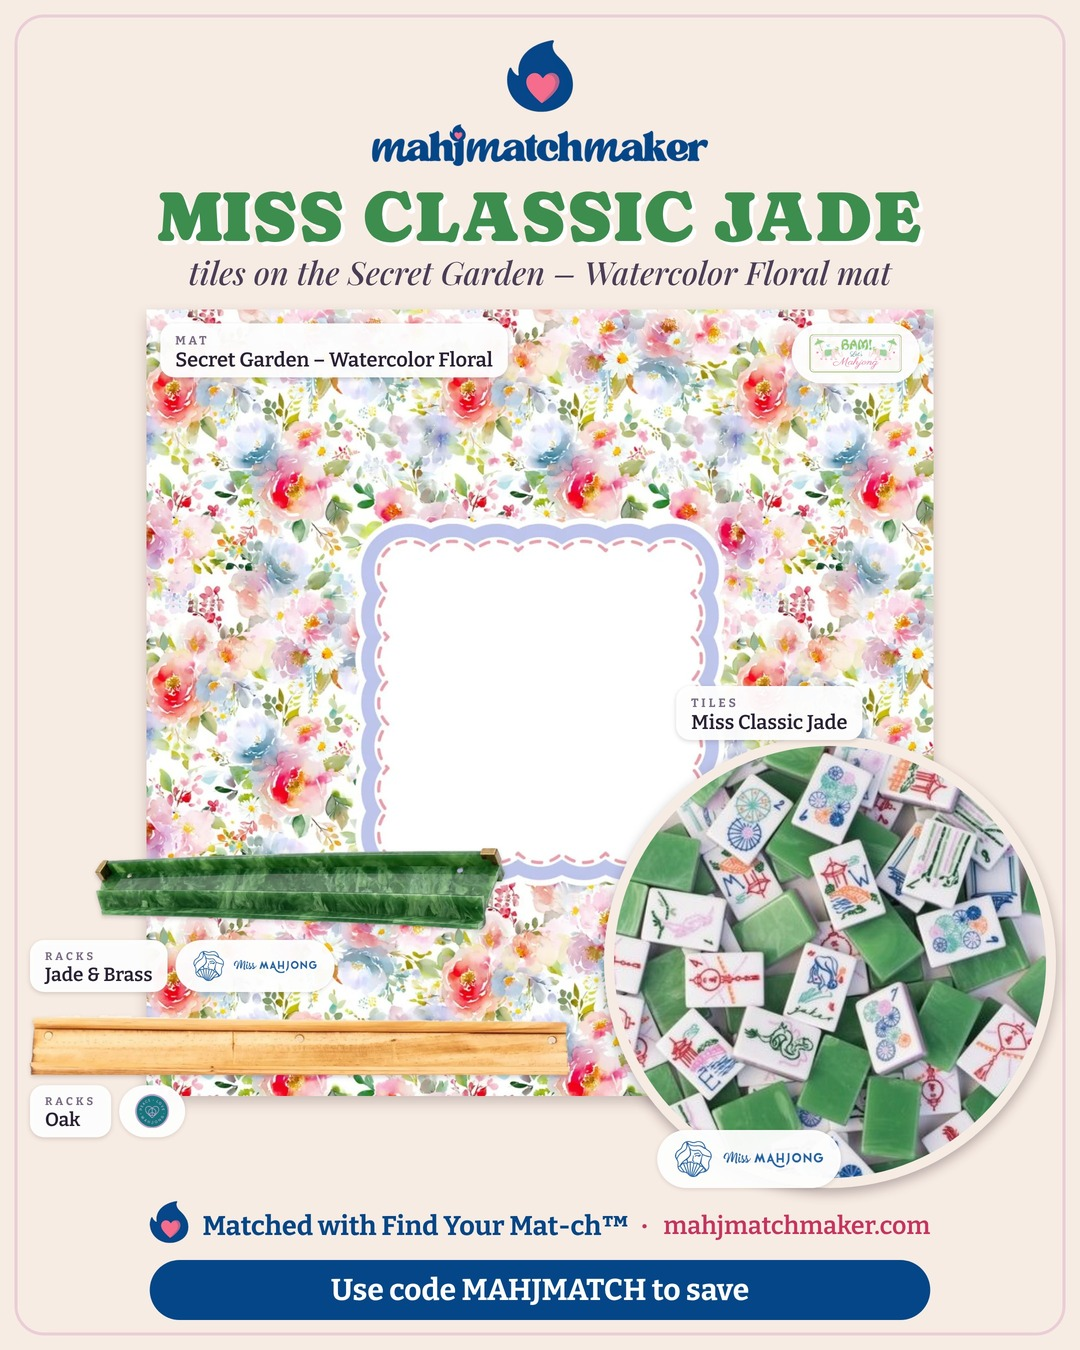
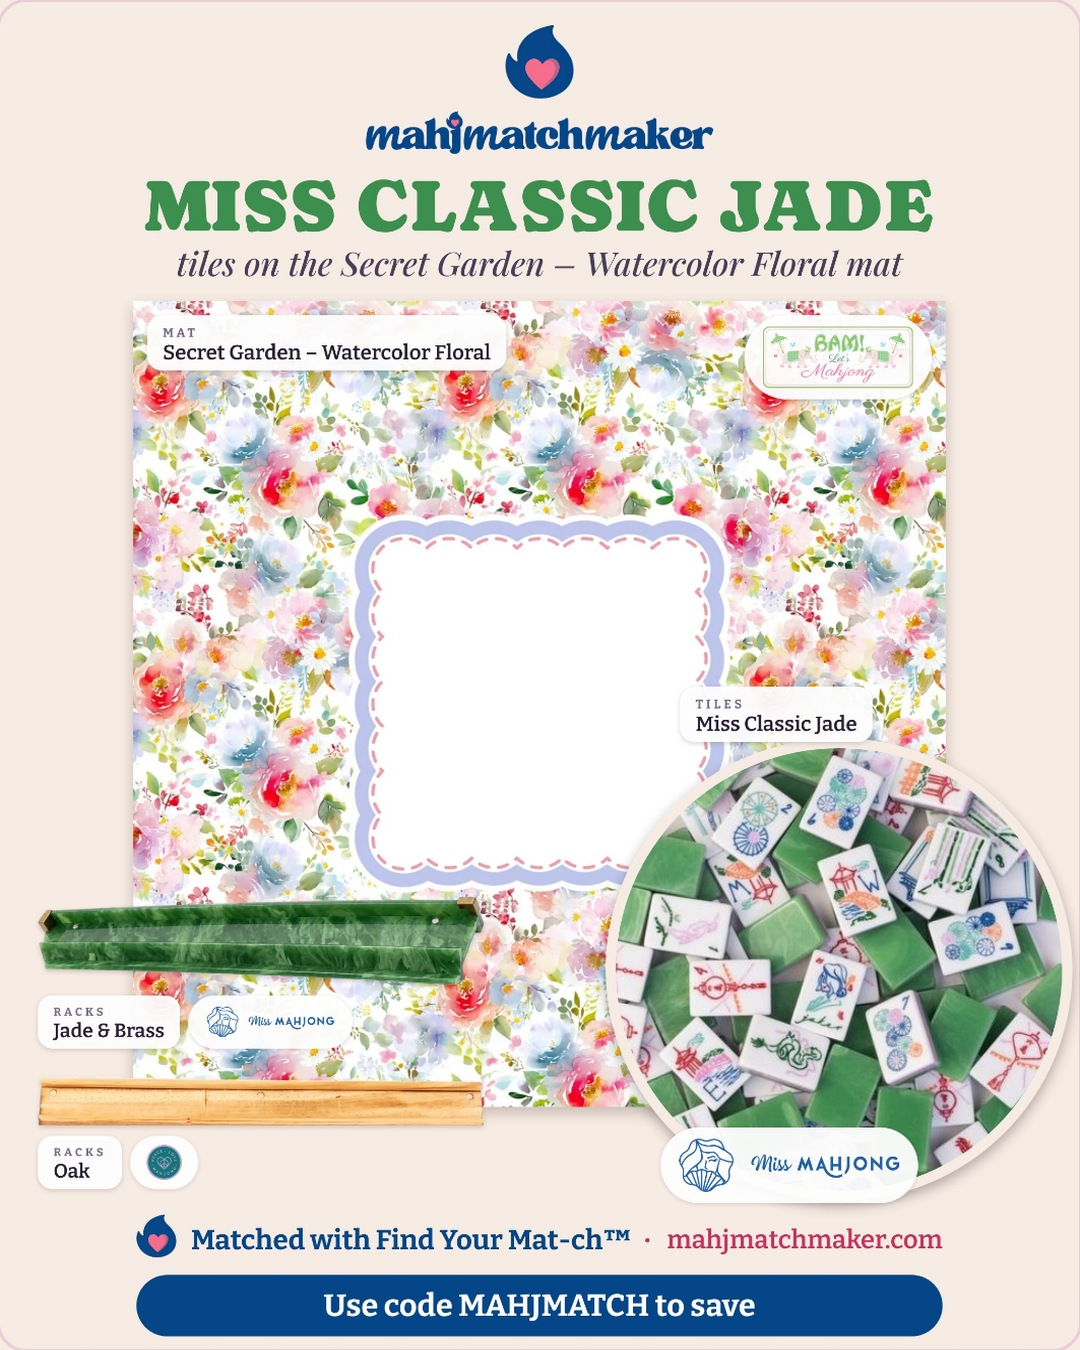
Miss Classic restock pivot: clean cards, Planoly captions, stories; partner watch rebuilt
Claude-Session: https://claude.ai/code/session_01QxwYQtmWcAr4s5uYJYP3mA

diff --git a/assets/social/fym-launch/launch-oct27/_s.html b/assets/social/fym-launch/launch-oct27/_s.html
@@ -1,0 +1,1 @@
+<html><head><meta charset=utf8><style>@font-face{font-family:Cap;src:url(file:///home/claude/mahjmatchmaker-data/scripts/social/tileprofile/fonts/Caprasimo.ttf)}@font-face{font-family:PF;src:url(file:///home/claude/mahjmatchmaker-data/scripts/social/tileprofile/fonts/playfair-display-latin-400-italic.woff2);font-style:italic}@font-face{font-family:Bit;src:url(file:///home/claude/mahjmatchmaker-data/scripts/social/tileprofile/fonts/bitter-latin-700-normal.woff2);font-weight:700}*{margin:0;box-sizing:border-box}body{position:relative;overflow:hidden;font-family:Bit;background:#fff;color:#062a55}.c{position:absolute;left:0;right:0;text-align:center}body{width:1080px;height:1920px}</style></head><body><div class="c" style="top:230px"><div style="font:700 26px Bit;letter-spacing:5px;color:#d6247f">BACK IN STOCK</div><div style="font:400 66px/1.05 Cap;margin-top:16px">Miss Classic Jade</div><div style="font:italic 400 34px PF;color:#4a3d58;margin-top:12px">Find her mat in Find <span style="font:italic 400 35px PF">Your</span> Mat-ch</div></div><img src="file:///home/claude/mahjmatchmaker-data/assets/social/fym-launch/launch-oct27/card-jad1.jpg" style="position:absolute;left:90px;top:520px;width:900px;border-radius:24px;box-shadow:0 20px 50px rgba(6,42,85,.14)"></body></html>

diff --git a/assets/social/fym-launch/launch-oct27/comp2b.py b/assets/social/fym-launch/launch-oct27/comp2b.py
@@ -1,0 +1,23 @@
+import os
+from PIL import Image
+exec(open('comp.py').read().split('mode=sys.argv[1]')[0])
+for o in []:
+    Image.open(o+'_cardonly.png').convert('RGB').resize((1080,1350),Image.LANCZOS).save(f'card-{o}.jpg',quality=92)
+def story_card(o,top_html):
+    return f'<div class="c" style="top:230px">{top_html}</div><img src="file://{D}/card-{o}.jpg" style="position:absolute;left:90px;top:520px;width:900px;border-radius:24px;box-shadow:0 20px 50px rgba(6,42,85,.14)">'
+P={}
+P['bb-2-phone']=(1350,f'<div class="c" style="top:80px">{pill("FALL FAVORITE")}<div style="font:400 78px/1.05 Cap;margin-top:24px">Start with<br>Brownstone Bloom</div><div style="font:italic 400 36px PF;color:#4a3d58;margin-top:16px">Pick the tiles, swipe your mat, add racks.</div></div>'+phone('bb_swipe.png',400,340,560))
+S={}
+S['bb-1']=story_card('bb',f'<div style="font:400 72px/1.05 Cap">Start with<br>Brownstone Bloom</div><div style="font:italic 400 34px PF;color:#4a3d58;margin-top:14px">in {FYM(34)}</div>')
+S['bb-2']=f'<div class="c" style="top:230px"><div style="font:400 72px/1.05 Cap">Swipe your mat</div><div style="font:italic 400 34px PF;color:#4a3d58;margin-top:14px">Anders Ruff Brownstone Bloom tiles</div></div>'+phone('bb_swipe.png',520,280,450)
+for o,t in [('mal1','Miss Classic Malachite'),('jad1','Miss Classic Jade')]:
+    S[o]=story_card(o,f'<div style="font:700 26px Bit;letter-spacing:5px;color:#d6247f">BACK IN STOCK</div><div style="font:400 66px/1.05 Cap;margin-top:16px">{t}</div><div style="font:italic 400 34px PF;color:#4a3d58;margin-top:12px">Find her mat in {FYM(34)}</div>')
+with sync_playwright() as p:
+    b=p.chromium.launch(); pg=b.new_page(viewport={'width':1080,'height':1350})
+    for k,(H,body) in []:
+        pg.set_viewport_size({'width':1080,'height':H})
+        open('_p.html','w').write(f'<html><head><meta charset=utf8><style>{CSS}body{{width:1080px;height:{H}px}}</style></head><body>{body}</body></html>'); pg.goto('file://'+D+'/_p.html'); pg.wait_for_timeout(900); pg.screenshot(path=f'post-{k}.jpg',type='jpeg',quality=92)
+    pg.set_viewport_size({'width':1080,'height':1920})
+    for k,body in [(k,v) for k,v in S.items() if k in ('mal1','jad1')]:
+        open('_s.html','w').write(f'<html><head><meta charset=utf8><style>{CSS}body{{width:1080px;height:1920px}}</style></head><body>{body}</body></html>'); pg.goto('file://'+D+'/_s.html'); pg.wait_for_timeout(900); pg.screenshot(path=f'story-instock-{k}.jpg',type='jpeg',quality=92)
+    b.close()

diff --git a/docs/DESK.md b/docs/DESK.md
@@ -15,6 +15,7 @@ Rewritten nightly by the end-of-day desk cleanup (9:23pm ET). The morning HQ cle
 
 **Repo note:** checkout /home/claude/mahjmatchmaker-data on `partner-catalogs-sqsp` (use `git fetch --depth=60`; a full fetch of this 3 GB repo times out).
 
+- **MAIN, TODAY (Oct 27 11:50am): Miss Classic Malachite + Jade restock post** — Planoly group 01a17a6c-12c1 (IG+FB, 2 slides, captions updated) + story frames assets/social/fym-launch/launch-oct27/story-instock-{mal1,jad1}.jpg (Planoly assets 01a17e0a-1eb1…, 01a17e0a-2080…). Waiting on her yes; then set_post_group_schedule 16:30Z and create the 2-frame auto story at 16:33Z.
 ## Handoffs to do first (Tue morning, before 9am CT)
 - **OPS: paste FYM Version 1.2 on the website preview page (handed off 8:45pm Mon; NOT done at 9:30pm, curl still shows fym-v97).** Squarespace Pages > Not Linked > Find Your Mat-ch Preview (/find-your-mat-ch-preview) > Edit > double-click the code block > `const html=await (await fetch('https://cdn.jsdelivr.net/gh/tiffanybrie/mahjmatchmaker-data@80a2aad8318b1688c27c77ebd00dc48f80bbad40/site/livepatch/fym-preview-oct21/page-block.html')).text(); const v=document.querySelector('.cm-editor .cm-content').cmTile.view; v.dispatch({changes:{from:0,to:v.state.doc.length,insert:html}})` (search iframes for .cm-editor) > Escape > Save > Exit. Verify `curl -s https://www.mahjmatchmaker.com/find-your-mat-ch-preview?v=$RANDOM | grep fym-v98`. While there: the stray `site-app/fym-v72` string is still on that page (4th night): find and drop it. Artifact is already on Version 1.2; launch README 0a pin is already 80a2aad / fym-v98, so the launch swap ships 1.2 even if this paste slips.
 - **OPS / Main: the 9am CT launch switch runs as a cloud scheduled task (trig_011jdGG, 14:00 UTC) that does NOT require her computer, so it has no Claude in Chrome.** Its Squarespace steps (0a tool onto /find-your-match, hero swap, CSS, announcement bar off) will likely fail. Fix: Tiffany turns on "Require this computer" for that task in the Claude desktop app (HQ Today 1), or an attended Ops chat with Chrome runs site/livepatch/launch-oct27/README.md by hand at 9am CT. Note: the README step 1 says italic "Your" in the H1; the brand guide (Oct 21 18:30) and the task prompt say the website H1 is PLAIN, no <em>. Follow the brand guide. Same Chrome gap applies to the 8:15am CT launch-email task (trig_01ErZy), but that one stops at step 1 anyway (RTS d-email-templates is `no`) and will set HQ need email-templates-approve to red/today: the morning cleanup should merge that into the launch-plan need, since the subscriber email ask is on the Launch week plan page.

diff --git a/docs/ANSWERS.md b/docs/ANSWERS.md
@@ -547,3 +547,4 @@ Tiffany: tabletop room images look AI, don't want them. Use the clean flat/aeria
 - 2026-10-27 10:56am Tiffany: put Deco Indigo on the green mat (Savannah) since there are green racks; asked for other rack colours. Sent deco-indigo-savannah.jpg (Indigo on Savannah + Bam Bird Lagoon + Walnut) + rack-options.jpg (all Bam Bird racks: 12 wood colours, lucite, white acrylic; B&B greens/teals).
 - 2026-10-27 10:57am Tiffany (STANDING matching taste rule): look for TWO-COLOUR coordination, not tonal. Claude's matches drift tonal (green on green, blue on blue) and lose the second colour. Good = mat carries the tile backs' colour AND a second colour from the faces (Deco Lagoon on Reba: teal centre + pink border); racks pick up one colour each. Favourite of the set: Deco Lagoon on Reba. Sent deco-twocolor.jpg (Lagoon/Reba + B&B Mauve + Bam Bird Lagoon; Mulberry/Viola + Bam Bird Mulberry + B&B Dark Teal; Indigo/Peacock Garden + Bam Bird Indigo + Olive Green).
 - 2026-10-27 10:58am Tiffany: Anders Ruff (~23K followers) reshared the launch reel.
+- 2026-10-27 11:42am Tiffany: we're failing at keeping up with partner brands — Miss Mahjong restocked Miss Classic Jade + Malachite (announced ~19h ago on IG; back-in-stock email hit mahjmatchmaker@ 11:02am). Pivot today. Claude: confirmed both available on missmahjong.com; re-rendered clean-title cards (Malachite x YOTD Amped-Up Grey; Jade x Secret Garden, Jade & Brass + PLM Oak; Petalwood dropped per her Oct 26 note); updated Planoly group 01a17a6c-12c1 (IG+FB) to "BACK" captions + 2 slides + tags; built 2 "BACK IN STOCK" story frames. Scheduling was blocked pending her yes (asked: 12:30pm post, 12:33 stories). Email watch rebuilt: "Partner watch" 3x daily (9:23/1:23/6:23) = Gmail (incl. backinstock senders, "now available") + every partner's Instagram last 26h + site confirm + same-day message/DESK for album sets.
